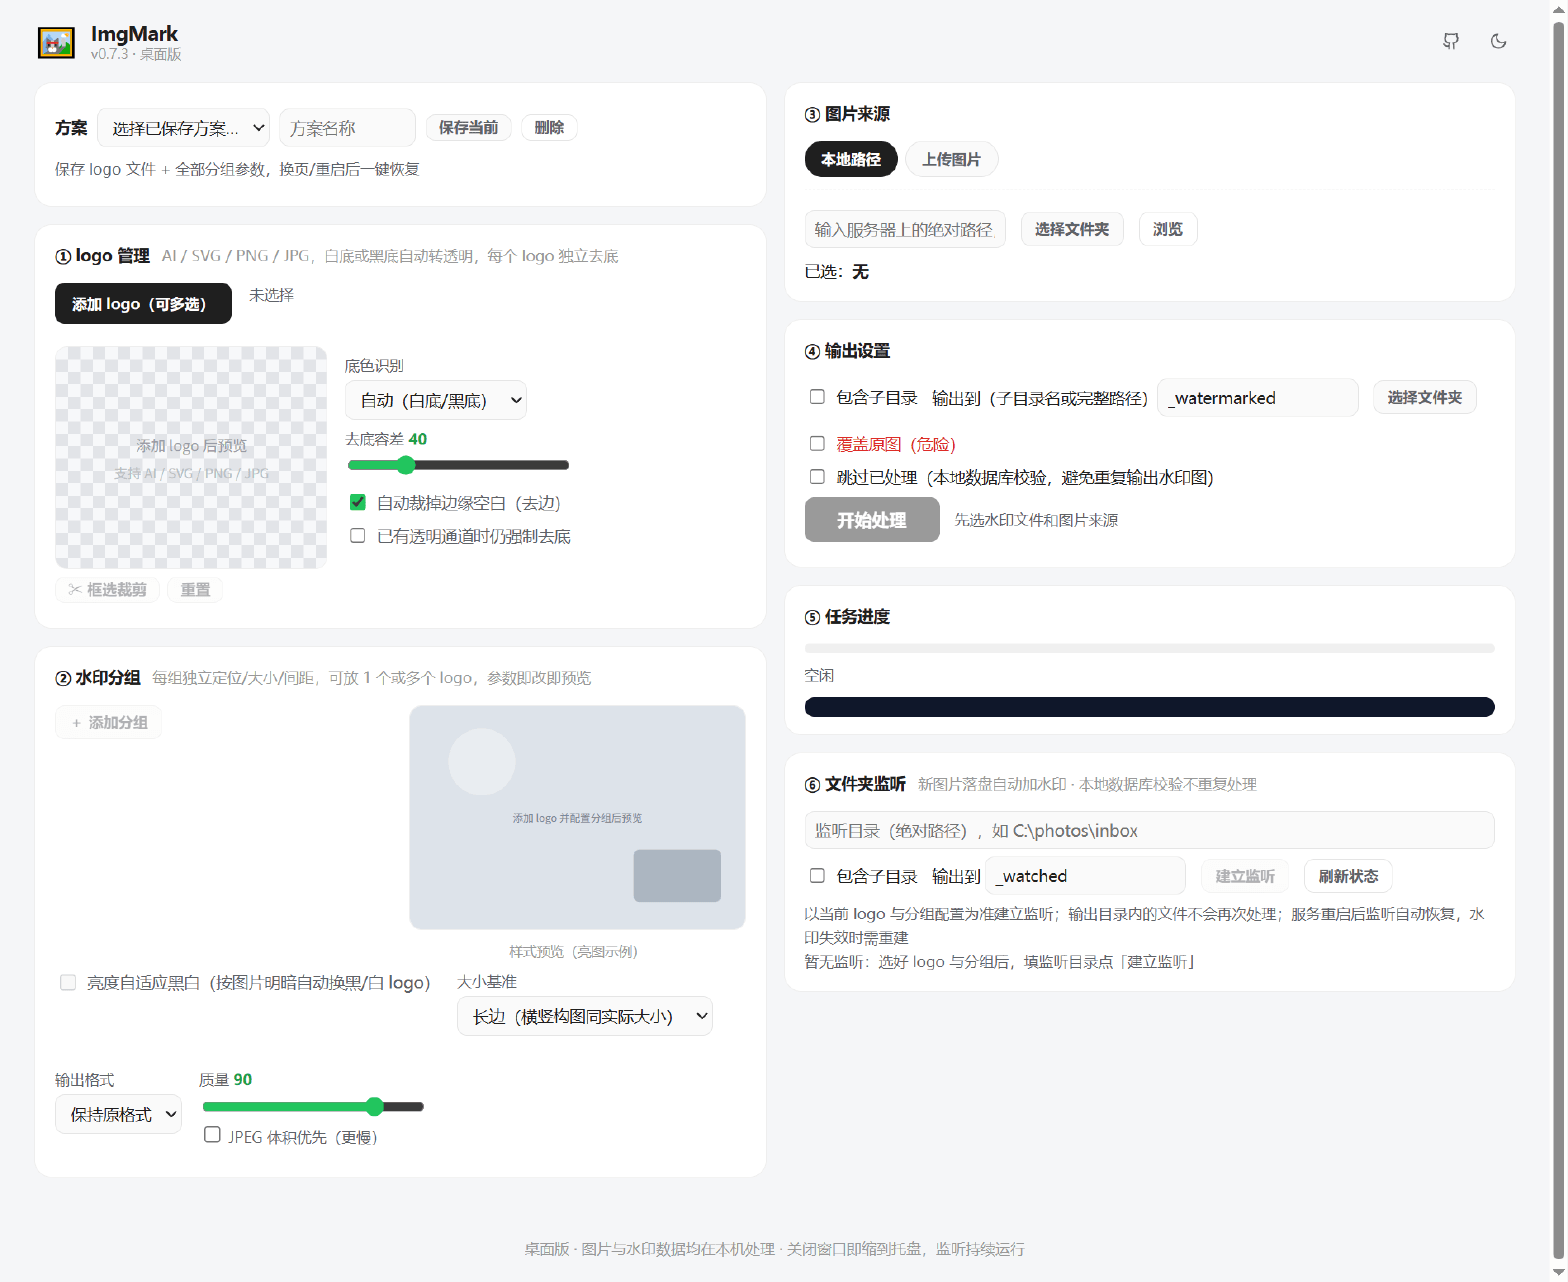
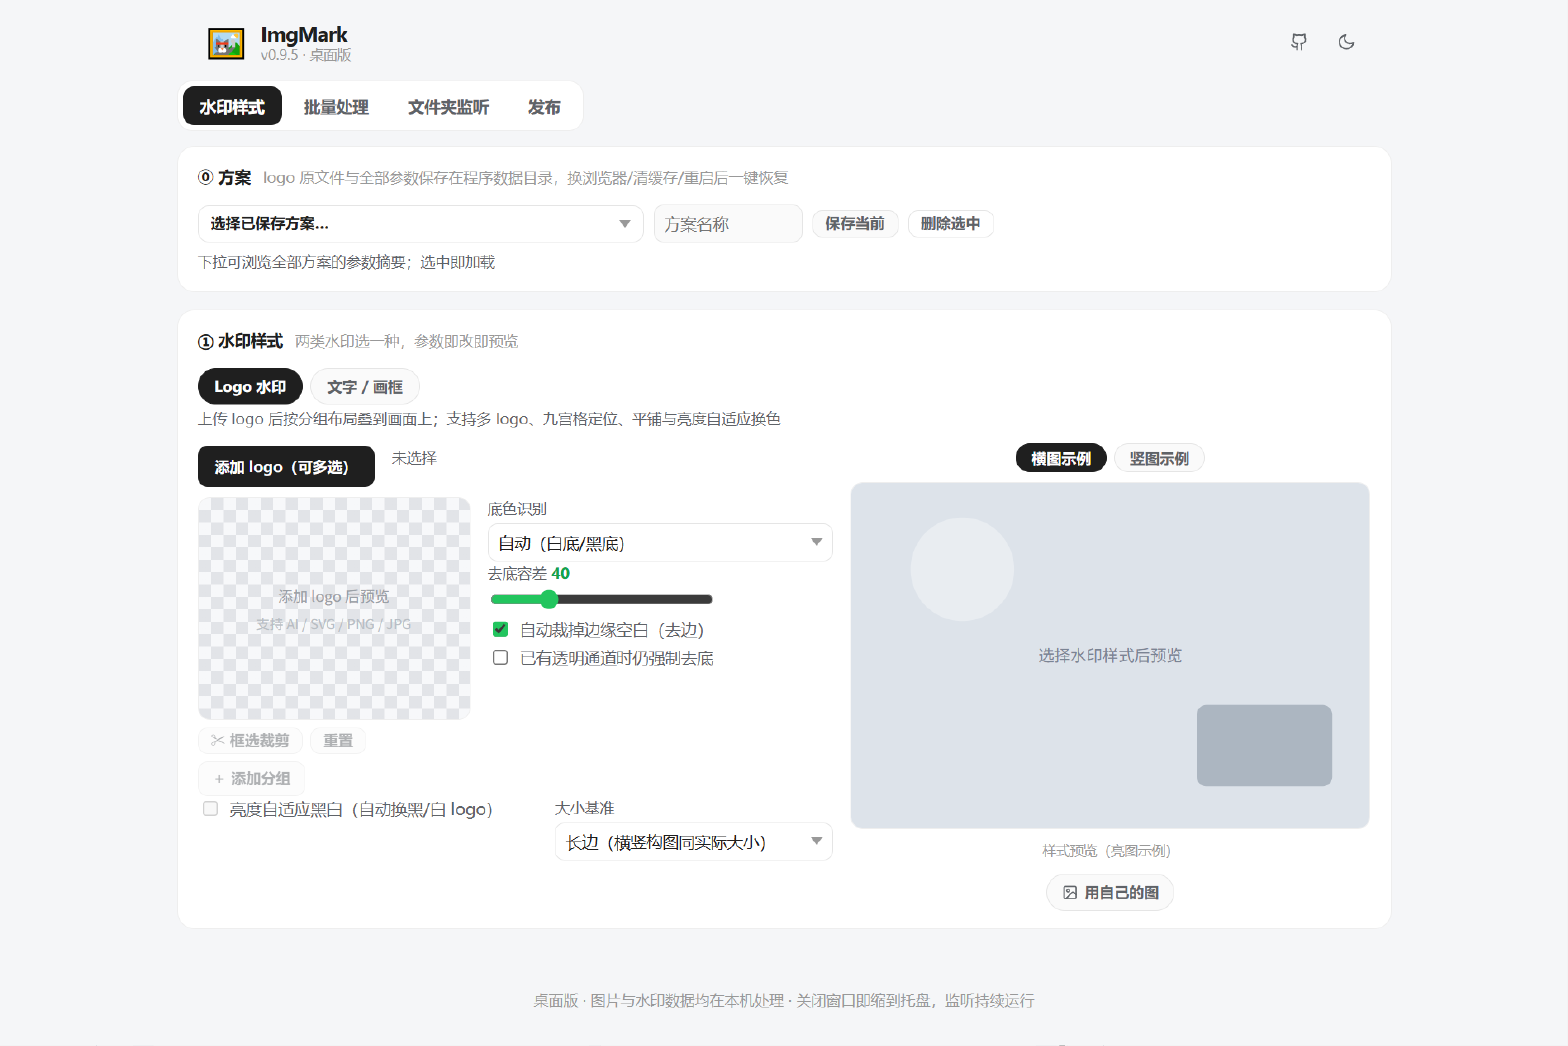
docs: 完善文档并准备 v0.9.5 发版
主视觉改为明暗双主题截图（随 GitHub 主题切换）；README 补「发布与
文案」能力、copy API 与测试说明；AGENTS.md 增加任务 E 文案生成；
CHANGELOG 并入发布页签小节；manifest 同步 changelog 与描述。

diff --git a/CHANGELOG.md b/CHANGELOG.md
@@ -4,7 +4,7 @@
 
 > 发版时 CI 会从本文件截取对应版本的小节作为 GitHub Release 正文（`scripts/release-notes.js`），新版本请在顶部按同样格式追加。
 
-## [未发布]
+## [0.9.5] - 2026-10-13
 
 ### 新增
 - **「发布」页签（文案生成）**：上传待发布图片 + 选平台 + 简单描述场景，视觉模型识别画面后按平台格式给出候选标题、正文、话题与 @ 建议，手动复制到各平台发布（不自动发布）。历史截图可上传为参考（最多选 3 张），模型会模仿其语气与话题习惯
@@ -12,13 +12,6 @@
 - 参考截图支持**拖入卡片 / Ctrl+V 粘贴**，新存的自动勾选（最多 3 张）；模型选择改为**按供应商分组的卡片面板**（带搜索，选中记住到配置）；全站确认框改自定义样式（危险操作红色主按钮），不再弹原生 confirm
 - 模型服务配置存数据目录 `llm.json`（或环境变量 `IMGMARK_LLM_BASE_URL` / `IMGMARK_LLM_API_KEY`），**密钥不下发到前端、不出现在任何 `/api/*` 响应里**
 - 新增 `POST /api/copy/generate`、`GET /api/copy/models`、`GET/POST/DELETE /api/copy/refs`、`GET/PUT /api/copy/config`（详见 README）；`scripts/copy-smoke.js` 用本地 mock 模型服务覆盖全流程
-
-### 修复
-- 文字字段非法（如字段名拼错）且未带 logo 的分组，此前被误判为「缺 logo 集」而报 404；现在正确报 400（第 N 组没有 logo 或有效文字字段）
-
-## [0.9.5] - 2026-10-12
-
-### 新增
 - **复制按短边 1080 输出**（分享尺寸）：主流社交平台（微信 / QQ / 小红书 / Instagram）的通行上限都是短边 1080 上下，原图 3000×4500 直接粘过去既慢又会被平台再压一遍。右键菜单直接给两条 ——「复制图片 · 短边 1080（分享）」与「复制图片 · 原始尺寸」，点哪条用哪种，不再占工具条一个常驻开关；只缩不放，短边本就 ≤1080 的原样复制。**导出与样式预览始终是原分辨率**
 - **预览图右键复制**：在「合成结果」或放大的大图上右键即可把成图复制到剪贴板，直接粘贴到微信 / QQ / 小红书等；放大后右上角还有一个「复制图片」按钮，不必猜。桌面版走主进程写系统剪贴板（目标程序读的是 Windows 原生格式），浏览器里走 `navigator.clipboard`（只收 PNG，非 PNG 自动转一道），两条路都不通时退回下载而不是无声失败
 - **单张导出**：样式预览区新增一行轻量工具条 —— 📷 用自己的图 换一张真图试当前样式（即时合成，替代示例图，改样式时跟着重渲同一张），满意就 ⬇ 导出，`原名_wm.扩展名` 存为新文件、不动原图；桌面壳走「另存为」对话框，浏览器里直接下载。没有 EXIF 而跳过合成时如实提示「画面原样返回」，不留一条空白边框
@@ -37,6 +30,7 @@
 - 预览区换真图后自动识别该图横竖并据此决定预览尺寸（竖图给到预览列的 80% 宽看细节，横图维持原档），同时收起只对示例图有意义的「横图示例 / 竖图示例」切换
 
 ### 修复
+- 文字字段非法（如字段名拼错）且未带 logo 的分组，此前被误判为「缺 logo 集」而报 404；现在正确报 400（第 N 组没有 logo 或有效文字字段）
 - 单张导出的三个按钮（用自己的图 / 导出 / 回到示例）高矮不齐：pill 按钮的高度由行高与内边距共同决定，三者默认值不同会差几个像素，导出按钮塞了图标后更明显；现于工具条内统一成同一组内边距、字号与最小高度
 
 ## [0.9.0] - 2026-10-03

diff --git a/AGENTS.md b/AGENTS.md
@@ -194,7 +194,31 @@ curl -s -OJ -X POST http://127.0.0.1:28110/api/render \
 - 既没有分组也没有边框 → 400；引用了不存在/已失效的 logo 集 → 404
 - 出错仍是 JSON（`{"error":"中文原因"}`）——只有成功时才是图片字节，用 `-f`/`-OJ` 才能把错误存成文件
 
-## 7. CLI 等价命令
+## 7. 任务 E：文案生成（发布页签）
+
+```bash
+# 模型服务配置（OpenAI 兼容；密钥只写不回读，也可用环境变量 IMGMARK_LLM_BASE_URL / IMGMARK_LLM_API_KEY）
+curl -s -X PUT http://127.0.0.1:28110/api/copy/config \
+  -H 'Content-Type: application/json' \
+  -d '{"baseUrl":"http://127.0.0.1:20127/v1","apiKey":"sk-...","model":"mimo/mimo-v2.6-flash"}'
+
+curl -s http://127.0.0.1:28110/api/copy/models     # 视觉模型清单（只列 vision 能力）
+curl -s http://127.0.0.1:28110/api/copy/platforms  # 平台与默认文案规则
+
+# 历史截图参考（可选；存储于数据目录，最多 3 张参与生成）
+curl -s -X POST http://127.0.0.1:28110/api/copy/refs -F "file=@ref.png" -F "name=过往截图"
+
+# 生成：待发布图片 + 平台 + 一句话场景
+curl -s -X POST http://127.0.0.1:28110/api/copy/generate \
+  -F "image=@one.jpg" \
+  -F 'payload={"platform":"instagram","scene":"PNS 在成都 CPI 开快闪店，我去打卡拍照","model":"mimo/mimo-v2.6-flash","refIds":["<refId>"]}'
+# → {"platform","model","titles":[...],"body":"...","hashtags":[...],"mentions":[...]}
+```
+
+- `platform` 取值见 `GET /api/copy/platforms`（`instagram` / `xiaohongshu`）；`refIds` 可省略
+- 只产出文字供人工复制，**不代发**；`mentions` 只会原样输出场景描述里明确写过的 @ 账号
+
+## 8. CLI 等价命令
 
 ```bash
 cd app/server
@@ -207,13 +231,13 @@ node bin/wm.js apply -w combined.png -i /abs/photos --pos se --size 25 \
 CLI 暂不支持分组布局 / 监听 / 数据库去重 / 输出裁剪 cropRatio / 输出缩放 maxLongEdge（这些走 HTTP API；
 CLI 的 `--crop` 是水印源裁剪，别混淆）。
 
-## 8. 其他模式
+## 9. 其他模式
 
 - `mode=upload`：multipart 附 `files[]`（与 payload 同表单），结果用 `GET /api/jobs/:id/file/:idx` 逐个下载
 - `mode=fnos`：飞牛 NAS 内使用，UID 由应用网关注入 `x-trim-userid`（请求 payload/query 的 UID 不可信），输入和输出路径都必须位于当前用户可读/可写的授权目录（开放平台 `trim.file.*`），桌面壳内隐藏该页签
 - `mode=local-files`：桌面壳原生对话框的显式文件列表
 
-## 9. Agent 注意事项
+## 10. Agent 注意事项
 
 - **默认不要用 `overwrite`**：它会直接改写原图片文件（不可恢复）；勾选后强制保持原格式
 - `skipProcessed`：配合本地数据库跳过已输出文件（ overwrite 时无效）；「已输出」= 数据库身份命中且输出仍在，或输出文件已存在
